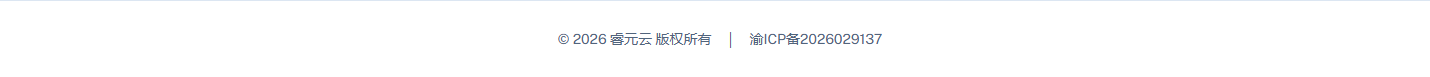
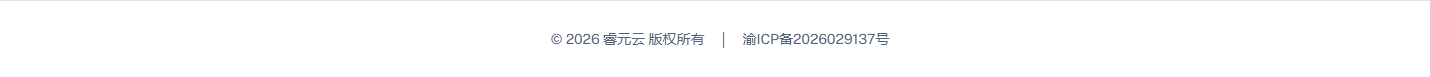
Complete the ICP registration display with the required suffix
AI-assisted correction requested by the site owner; keep the MIIT query link and centered footer layout.

Changed region(s): [[0.3692, 0.4156, 0.6462, 0.6234]]

diff --git a/web/src/components/layout/components/footer.tsx b/web/src/components/layout/components/footer.tsx
@@ -126,7 +126,7 @@ function IcpRegistration() {
       className='text-muted-foreground hover:text-foreground focus-visible:ring-ring inline-flex min-h-11 items-center rounded-sm whitespace-nowrap underline-offset-4 transition-colors hover:underline focus-visible:ring-2 focus-visible:ring-offset-4 focus-visible:outline-none'
     >
       {/* The registration identifier stays unchanged in every language. */}
-      渝ICP备2026029137
+      渝ICP备2026029137号
     </a>
   )
 }

diff --git a/web/src/features/home/__tests__/landing.test.tsx b/web/src/features/home/__tests__/landing.test.tsx
@@ -732,7 +732,7 @@ describe('enterprise homepage', () => {
       within(screen.getByRole('banner')).getByRole('link', { name: /睿元云/ })
     ).toHaveAttribute('href', '/')
     expect(
-      screen.getByRole('link', { name: '渝ICP备2026029137' })
+      screen.getByRole('link', { name: '渝ICP备2026029137号' })
     ).toHaveAttribute('href', 'https://beian.miit.gov.cn/')
     const registration = await screen.findAllByRole('button', {
       name: 'Sign in / Register',

diff --git a/web/src/components/layout/__tests__/branding.test.tsx b/web/src/components/layout/__tests__/branding.test.tsx
@@ -113,7 +113,7 @@ it.each(['', '<p>Customer footer</p>'])(
       </QueryClientProvider>
     )
     const registration = await screen.findByRole('link', {
-      name: '渝ICP备2026029137',
+      name: '渝ICP备2026029137号',
     })
     expect(registration).toHaveAttribute('href', 'https://beian.miit.gov.cn/')
     expect(registration).toHaveAttribute('target', '_blank')
